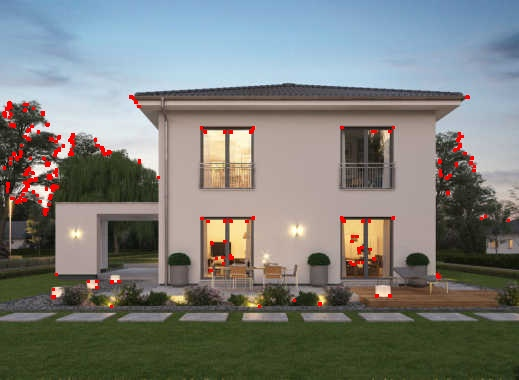
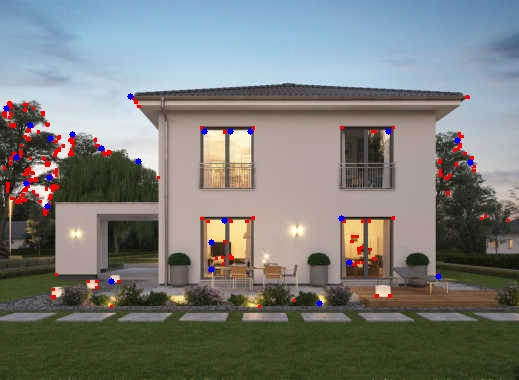
added another corner detection method to compare to harris

diff --git a/General/introduction.py b/General/introduction.py
@@ -43,12 +43,20 @@ def create_random_color_image(x=540, y=960):
 def corner_detection():
     img = cv2.imread('General\images\haus.jpg', cv2.COLOR_BGR2RGB)
     gray = cv2.cvtColor(img,cv2.COLOR_RGB2GRAY)
-    gray = np.float32(gray)
-    dst = cv2.cornerHarris(gray,2,5,0.04)
+    gray2 = np.float32(gray)
+    dst = cv2.cornerHarris(gray2,2,5,0.04)
     dst = cv2.dilate(dst,None)
     img[dst>0.1*dst.max()]=[0,0,255]
 
-    cv2.imshow('image', gray)
+    corners = cv2.goodFeaturesToTrack(gray,25,0.05,20)
+    corners = np.int0(corners)
+
+    for i in corners:
+        x,y = i.ravel()
+        cv2.circle(img,(x,y),3,255,-1)
+
+
+    cv2.imshow('image', img)
     cv2.waitKey(0)
     cv2.destroyAllWindows()
 
